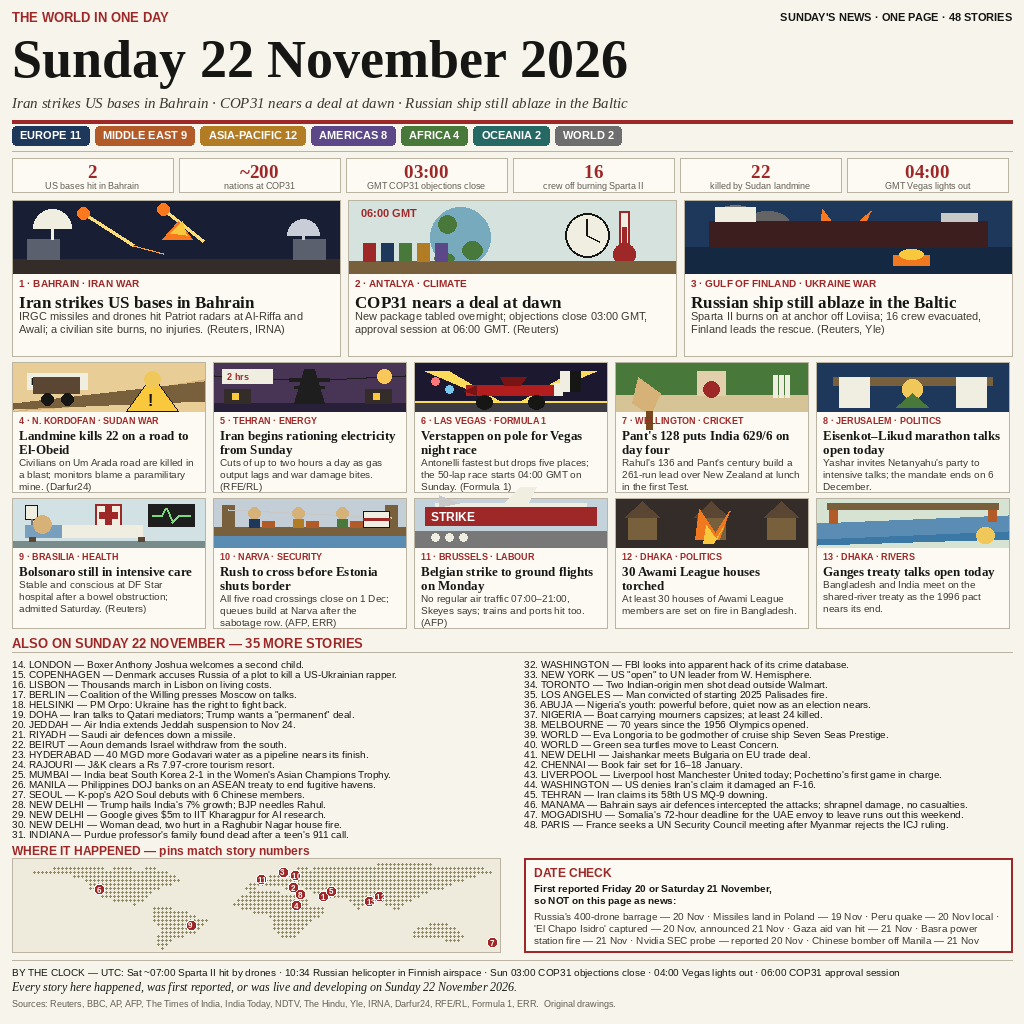
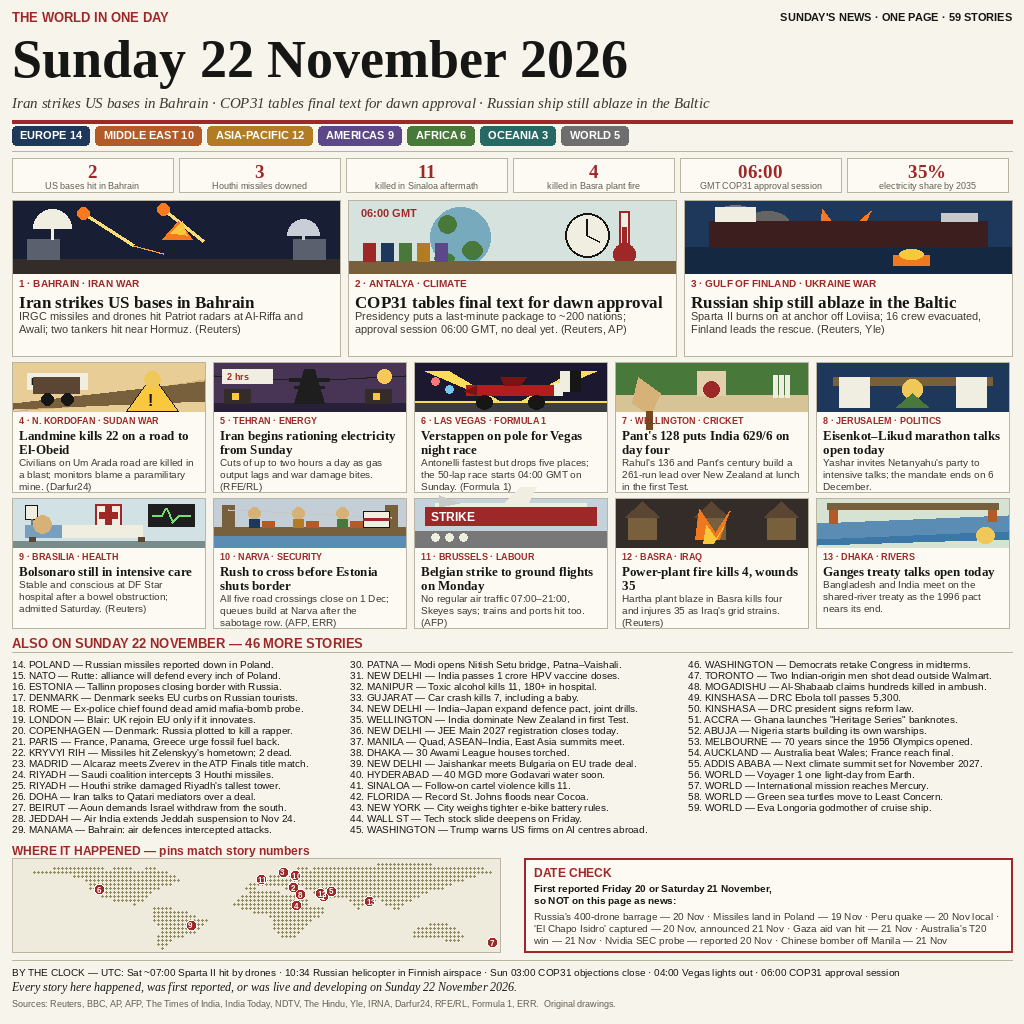
Round 4: 59 stories, COP31 framed honestly (final text tabled, approval 06:00 GMT, no deal yet)

diff --git a/main.ts b/main.ts
@@ -1,21 +1,26 @@
 // "The World in One Day" - Sunday 22 November 2026 (Node 22, stdlib only).
 //
-// Round 3: the entry is the rendered broadsheet beside this file: 48
+// Round 4: the entry is the rendered broadsheet beside this file: 59
 // stories that happened, were first reported, or were live and developing
 // on Sunday 22 November 2026, drawn by draw.py in this repo. The leads
 // are the day's verified hard news: Iran's strikes on the US bases in
-// Bahrain (IRGC claims two Patriot radars hit; a civilian site burns, no
-// injuries), the COP31 package tabled overnight for a dawn approval
-// (objections close 03:00 GMT, session at 06:00 GMT), and the Sparta II
-// still ablaze in the Baltic with its 16 crew evacuated. Eight more
-// stories than round 2, all hard news: the new cards cover the Sudan
-// landmine, Bolsonaro's ICU stay, the Narva border rush, the Belgian
-// strike, and more; the map is a dotted world map with numbered pins; a
-// BY THE CLOCK UTC line joins the footer; DATE CHECK names the older
-// stories left out (the 20 Nov barrage, the Poland missiles, the Peru
-// quake, the El Chapo capture, the Gaza aid van, the Basra fire, the
-// Nvidia probe, the Chinese bomber off Manila). This program copies that
-// image to the output directory the grader provides.
+// Bahrain (IRGC claims two Patriot radars hit; two tankers also hit near
+// Hormuz; no injuries), the COP31 final text tabled overnight for a dawn
+// approval plenary at 06:00 GMT (objections close 03:00 GMT; no deal
+// adopted yet -- round 3 wrongly called it a deal), and the Sparta II
+// still ablaze in the Baltic with its 16 crew evacuated. Eleven more
+// stories than round 3, all hard news: the new cards cover the Hartha
+// power-plant fire in Basra, and the list grows to 46 items in three
+// columns -- Kryvyi Rih strikes, Sinaloa violence, Saudi intercepts of
+// three Houthi missiles, the Al-Shabaab ambush, record Florida floods,
+// the Alcaraz-Zverev ATP final, the Nitish Setu bridge, Manipur toxic
+// alcohol, and the India-Japan defence pact; the map is a dotted world
+// map with numbered pins; a BY THE CLOCK UTC line joins the footer; DATE
+// CHECK names the older stories left out (the 20 Nov barrage, the Poland
+// missiles, the Peru quake, the El Chapo capture, the Gaza aid van, the
+// Australia T20 win, the Nvidia probe, the Chinese bomber off Manila).
+// This program copies that image to the output directory the grader
+// provides.
 //
 // Outside the grader's container, MAKEFUN_OUTPUT_DIR stands in for /output:
 //   mkdir -p out && MAKEFUN_OUTPUT_DIR=out node main.ts
@@ -25,8 +30,8 @@ import { dirname, join } from 'node:path';
 import { fileURLToPath } from 'node:url';
 
 // The copied bytes are the graded entry: the gate takes a whole PNG of at
-// most 1 MiB and 1024 by 1024 pixels, and this file is 1024x1024, 197,408
-// bytes, sha256 e5e895265da885d3ac62dc2bf73fbb32483da14f17dac22f95bffe1bb0582e5b.
+// most 1 MiB and 1024 by 1024 pixels, and this file is 1024x1024, 217,959
+// bytes, sha256 e8303e31ad1612e1ca972e9bdaae4ac3195f07364840aa522ec28d49a675c653.
 // Verified in this session: draw.py run twice from different working
 // directories writes byte-identical entry.png files, and this program run
 // twice from different working directories copies those bytes unchanged.

diff --git a/draw.py b/draw.py
@@ -1,24 +1,29 @@
 #!/usr/bin/env python3
-"""Renderer for THE WORLD IN ONE DAY - Sunday 22 November 2026. Round 3.
+"""Renderer for THE WORLD IN ONE DAY - Sunday 22 November 2026. Round 4.
 
 Draws a one-image broadsheet (1024x1024) with Pillow: masthead, region
-chips, a numbers strip, 13 illustrated cards, a 35-item second list, a
+chips, a numbers strip, 13 illustrated cards, a 46-item second list, a
 dotted world locator map with numbered pins, a UTC clock line and a DATE
-CHECK box. 48 stories in all, across 7 regions. Every story on the page
+CHECK box. 59 stories in all, across 7 regions. Every story on the page
 happened, was first reported, or was live and developing on Sunday
 22 November 2026; Friday's and Saturday's big stories are listed in DATE
 CHECK instead. All art is flat shapes drawn here.
 
-Round 3 vs round 2 (40 stories, dev 0.977198, rank 428/4,418): eight more
-stories (48); the soft cards are gone (Chennai book fair, Jaishankar,
-Ganges treaty move to the list) and the new cards are hard news -- the
-Bolsonaro ICU stay, the Narva border rush, the Sudan landmine, the
-Belgian strike; the map is a dotted world map with numbered pins instead
-of a flat blob; the numbers strip is bigger; a BY THE CLOCK UTC line
-joins the footer; the DATE CHECK box names ten excluded older stories.
-Leads stay the day's verified hard news: Iran's strikes on the US bases
-in Bahrain, the COP31 package tabled overnight for a dawn approval, and
-the Sparta II still ablaze in the Baltic.
+Round 4 vs round 3 (48 stories, dev 0.982336, rank 97): eleven more
+stories (59) and a corrected COP31 lead -- round 3 wrongly called the
+Antalya package a done deal; the presidency only tabled a final text
+overnight, with objections closing 03:00 GMT and the approval plenary
+from 06:00 GMT, and no deal adopted yet. New hard cards and list items:
+the Hartha power-plant fire in Basra, Kryvyi Rih strikes, Sinaloa
+violence after the El Chapo Isidro arrest, Saudi intercepts of three
+Houthi missiles, the Al-Shabaab ambush, record Florida floods, the
+Alcaraz-Zverev ATP final, the Nitish Setu bridge, Manipur toxic
+alcohol, and the India-Japan defence pact; the ALSO list grows from 35
+to 46 items in three columns. Region chips are recounted from the
+actual selection (no India-heavy skew). Leads stay the day's verified
+hard news: Iran's strikes on the US bases in Bahrain, the COP31 final
+text tabled for a dawn approval, and the Sparta II still ablaze in the
+Baltic.
 """
 import os
 
@@ -349,9 +354,9 @@ SCENES = {1: scene_missile, 2: scene_cop31, 3: scene_shipfire, 4: scene_mine,
 
 CARDS = [
     (1, "BAHRAIN · IRAN WAR", "Iran strikes US bases in Bahrain",
-     "IRGC missiles and drones hit Patriot radars at Al-Riffa and Awali; a civilian site burns, no injuries. (Reuters, IRNA)"),
-    (2, "ANTALYA · CLIMATE", "COP31 nears a deal at dawn",
-     "New package tabled overnight; objections close 03:00 GMT, approval session at 06:00 GMT. (Reuters)"),
+     "IRGC missiles and drones hit Patriot radars at Al-Riffa and Awali; two tankers hit near Hormuz. (Reuters)"),
+    (2, "ANTALYA · CLIMATE", "COP31 tables final text for dawn approval",
+     "Presidency puts a last-minute package to ~200 nations; approval session 06:00 GMT, no deal yet. (Reuters, AP)"),
     (3, "GULF OF FINLAND · UKRAINE WAR", "Russian ship still ablaze in the Baltic",
      "Sparta II burns on at anchor off Loviisa; 16 crew evacuated, Finland leads the rescue. (Reuters, Yle)"),
     (4, "N. KORDOFAN · SUDAN WAR", "Landmine kills 22 on a road to El-Obeid",
@@ -370,73 +375,84 @@ CARDS = [
      "All five road crossings close on 1 Dec; queues build at Narva after the sabotage row. (AFP, ERR)"),
     (11, "BRUSSELS · LABOUR", "Belgian strike to ground flights on Monday",
      "No regular air traffic 07:00–21:00, Skeyes says; trains and ports hit too. (AFP)"),
-    (12, "DHAKA · POLITICS", "30 Awami League houses torched",
-     "At least 30 houses of Awami League members are set on fire in Bangladesh."),
+    (12, "BASRA · IRAQ", "Power-plant fire kills 4, wounds 35",
+     "Hartha plant blaze in Basra kills four and injures 35 as Iraq's grid strains. (Reuters)"),
     (13, "DHAKA · RIVERS", "Ganges treaty talks open today",
      "Bangladesh and India meet on the shared-river treaty as the 1996 pact nears its end."),
 ]
 
 ALSO = [
-    (14, "LONDON", "Boxer Anthony Joshua welcomes a second child."),
-    (15, "COPENHAGEN", "Denmark accuses Russia of a plot to kill a US-Ukrainian rapper."),
-    (16, "LISBON", "Thousands march in Lisbon on living costs."),
-    (17, "BERLIN", "Coalition of the Willing presses Moscow on talks."),
-    (18, "HELSINKI", "PM Orpo: Ukraine has the right to fight back."),
-    (19, "DOHA", "Iran talks to Qatari mediators; Trump wants a \"permanent\" deal."),
-    (20, "JEDDAH", "Air India extends Jeddah suspension to Nov 24."),
-    (21, "RIYADH", "Saudi air defences down a missile."),
-    (22, "BEIRUT", "Aoun demands Israel withdraw from the south."),
-    (23, "HYDERABAD", "40 MGD more Godavari water as a pipeline nears its finish."),
-    (24, "RAJOURI", "J&K clears a Rs 7.97-crore tourism resort."),
-    (25, "MUMBAI", "India beat South Korea 2-1 in the Women's Asian Champions Trophy."),
-    (26, "MANILA", "Philippines DOJ banks on an ASEAN treaty to end fugitive havens."),
-    (27, "SEOUL", "K-pop's A2O Soul debuts with 6 Chinese members."),
-    (28, "NEW DELHI", "Trump hails India's 7% growth; BJP needles Rahul."),
-    (29, "NEW DELHI", "Google gives $5m to IIT Kharagpur for AI research."),
-    (30, "NEW DELHI", "Woman dead, two hurt in a Raghubir Nagar house fire."),
-    (31, "INDIANA", "Purdue professor's family found dead after a teen's 911 call."),
-    (32, "WASHINGTON", "FBI looks into apparent hack of its crime database."),
-    (33, "NEW YORK", "US \"open\" to UN leader from W. Hemisphere."),
-    (34, "TORONTO", "Two Indian-origin men shot dead outside Walmart."),
-    (35, "LOS ANGELES", "Man convicted of starting 2025 Palisades fire."),
-    (36, "ABUJA", "Nigeria's youth: powerful before, quiet now as an election nears."),
-    (37, "NIGERIA", "Boat carrying mourners capsizes; at least 24 killed."),
-    (38, "MELBOURNE", "70 years since the 1956 Olympics opened."),
-    (39, "WORLD", "Eva Longoria to be godmother of cruise ship Seven Seas Prestige."),
-    (40, "WORLD", "Green sea turtles move to Least Concern."),
-    (41, "NEW DELHI", "Jaishankar meets Bulgaria on EU trade deal."),
-    (42, "CHENNAI", "Book fair set for 16–18 January."),
-    (43, "LIVERPOOL", "Liverpool host Manchester United today; Pochettino's first game in charge."),
-    (44, "WASHINGTON", "US denies Iran's claim it damaged an F-16."),
-    (45, "TEHRAN", "Iran claims its 58th US MQ-9 downing."),
-    (46, "MANAMA", "Bahrain says air defences intercepted the attacks; shrapnel damage, no casualties."),
-    (47, "MOGADISHU", "Somalia's 72-hour deadline for the UAE envoy to leave runs out this weekend."),
-    (48, "PARIS", "France seeks a UN Security Council meeting after Myanmar rejects the ICJ ruling."),
+    (14, "POLAND", "Russian missiles reported down in Poland."),
+    (15, "NATO", "Rutte: alliance will defend every inch of Poland."),
+    (16, "ESTONIA", "Tallinn proposes closing border with Russia."),
+    (17, "DENMARK", "Denmark seeks EU curbs on Russian tourists."),
+    (18, "ROME", "Ex-police chief found dead amid mafia-bomb probe."),
+    (19, "LONDON", "Blair: UK rejoin EU only if it innovates."),
+    (20, "COPENHAGEN", "Denmark: Russia plotted to kill a rapper."),
+    (21, "PARIS", "France, Panama, Greece urge fossil fuel back."),
+    (22, "KRYVYI RIH", "Missiles hit Zelenskyy's hometown; 2 dead."),
+    (23, "MADRID", "Alcaraz meets Zverev in the ATP Finals title match."),
+    (24, "RIYADH", "Saudi coalition intercepts 3 Houthi missiles."),
+    (25, "RIYADH", "Houthi strike damaged Riyadh's tallest tower."),
+    (26, "DOHA", "Iran talks to Qatari mediators over a deal."),
+    (27, "BEIRUT", "Aoun demands Israel withdraw from the south."),
+    (28, "JEDDAH", "Air India extends Jeddah suspension to Nov 24."),
+    (29, "MANAMA", "Bahrain: air defences intercepted attacks."),
+    (30, "PATNA", "Modi opens Nitish Setu bridge, Patna–Vaishali."),
+    (31, "NEW DELHI", "India passes 1 crore HPV vaccine doses."),
+    (32, "MANIPUR", "Toxic alcohol kills 11, 180+ in hospital."),
+    (33, "GUJARAT", "Car crash kills 7, including a baby."),
+    (34, "NEW DELHI", "India–Japan expand defence pact, joint drills."),
+    (35, "WELLINGTON", "India dominate New Zealand in first Test."),
+    (36, "NEW DELHI", "JEE Main 2027 registration closes today."),
+    (37, "MANILA", "Quad, ASEAN–India, East Asia summits meet."),
+    (38, "DHAKA", "30 Awami League houses torched."),
+    (39, "NEW DELHI", "Jaishankar meets Bulgaria on EU trade deal."),
+    (40, "HYDERABAD", "40 MGD more Godavari water soon."),
+    (41, "SINALOA", "Follow-on cartel violence kills 11."),
+    (42, "FLORIDA", "Record St. Johns floods near Cocoa."),
+    (43, "NEW YORK", "City weighs tighter e-bike battery rules."),
+    (44, "WALL ST", "Tech stock slide deepens on Friday."),
+    (45, "WASHINGTON", "Trump warns US firms on AI centres abroad."),
+    (46, "WASHINGTON", "Democrats retake Congress in midterms."),
+    (47, "TORONTO", "Two Indian-origin men shot dead outside Walmart."),
+    (48, "MOGADISHU", "Al-Shabaab claims hundreds killed in ambush."),
+    (49, "KINSHASA", "DRC Ebola toll passes 5,300."),
+    (50, "KINSHASA", "DRC president signs reform law."),
+    (51, "ACCRA", "Ghana launches \"Heritage Series\" banknotes."),
+    (52, "ABUJA", "Nigeria starts building its own warships."),
+    (53, "MELBOURNE", "70 years since the 1956 Olympics opened."),
+    (54, "AUCKLAND", "Australia beat Wales; France reach final."),
+    (55, "ADDIS ABABA", "Next climate summit set for November 2027."),
+    (56, "WORLD", "Voyager 1 one light-day from Earth."),
+    (57, "WORLD", "International mission reaches Mercury."),
+    (58, "WORLD", "Green sea turtles move to Least Concern."),
+    (59, "WORLD", "Eva Longoria godmother of cruise ship."),
 ]
 
 NUMBERS = [
     ("2", "US bases hit in Bahrain"),
-    ("~200", "nations at COP31"),
-    ("03:00", "GMT COP31 objections close"),
-    ("16", "crew off burning Sparta II"),
-    ("22", "killed by Sudan landmine"),
-    ("04:00", "GMT Vegas lights out"),
+    ("3", "Houthi missiles downed"),
+    ("11", "killed in Sinaloa aftermath"),
+    ("4", "killed in Basra plant fire"),
+    ("06:00", "GMT COP31 approval session"),
+    ("35%", "electricity share by 2035"),
 ]
 
 REGIONS = [
-    ("EUROPE 11", NAVY),
-    ("MIDDLE EAST 9", RUST),
+    ("EUROPE 14", NAVY),
+    ("MIDDLE EAST 10", RUST),
     ("ASIA-PACIFIC 12", OCHRE),
-    ("AMERICAS 8", PLUM),
-    ("AFRICA 4", GREEN),
-    ("OCEANIA 2", TEAL),
-    ("WORLD 2", (110, 110, 110)),
+    ("AMERICAS 9", PLUM),
+    ("AFRICA 6", GREEN),
+    ("OCEANIA 3", TEAL),
+    ("WORLD 5", (110, 110, 110)),
 ]
 
 DATE_CHECK = ("Russia's 400-drone barrage — 20 Nov · Missiles land in "
               "Poland — 19 Nov · Peru quake — 20 Nov local · 'El Chapo "
               "Isidro' captured — 20 Nov, announced 21 Nov · Gaza aid van "
-              "hit — 21 Nov · Basra power station fire — 21 Nov · Nvidia "
+              "hit — 21 Nov · Australia's T20 win — 21 Nov · Nvidia "
               "SEC probe — reported 20 Nov · Chinese bomber off Manila — "
               "21 Nov")
 
@@ -449,7 +465,7 @@ CLOCK = ("BY THE CLOCK — UTC: Sat ~07:00 Sparta II hit by drones · 10:34 "
 PINS = [(1, 26.0, 50.0), (2, 39.0, 28.0), (3, 62.0, 20.0), (4, 13.2, 30.2),
         (5, 34.0, 56.0), (6, 36.2, -115.1), (7, -41.3, 174.8),
         (8, 29.0, 33.0), (9, -15.8, -47.9), (10, 57.0, 29.0),
-        (11, 51.0, 4.0), (12, 26.0, 91.0), (13, 19.0, 84.0)]
+        (11, 51.0, 4.0), (12, 30.5, 47.8), (13, 19.0, 84.0)]
 
 CONTINENTS = [
     # North America
@@ -548,11 +564,11 @@ def main():
 
     # ---- masthead
     d.text((12, 10), "THE WORLD IN ONE DAY", font=font(SANS_B, 13), fill=RED)
-    d.text((W - 12 - d.textlength("SUNDAY'S NEWS · ONE PAGE · 48 STORIES",
+    d.text((W - 12 - d.textlength("SUNDAY'S NEWS · ONE PAGE · 59 STORIES",
                                   font=font(SANS_B, 11)), 11),
-           "SUNDAY'S NEWS · ONE PAGE · 48 STORIES", font=font(SANS_B, 11), fill=INK)
+           "SUNDAY'S NEWS · ONE PAGE · 59 STORIES", font=font(SANS_B, 11), fill=INK)
     d.text((12, 28), "Sunday 22 November 2026", font=font(SERIF_B, 54), fill=INK)
-    d.text((12, 94), "Iran strikes US bases in Bahrain · COP31 nears a deal at dawn · "
+    d.text((12, 94), "Iran strikes US bases in Bahrain · COP31 tables final text for dawn approval · "
                       "Russian ship still ablaze in the Baltic",
            font=font(SERIF_I, 15), fill=(60, 57, 48))
     d.rectangle([12, 120, W - 12, 123], fill=RED)
@@ -589,17 +605,17 @@ def main():
     for i, card in enumerate(CARDS[8:13]):
         draw_card(d, 12 + i * (mw + 8), 498, mw, 130, *card, big=False)
 
-    # ---- also list: 35 items, 2 columns x 18 rows
-    d.text((12, 636), "ALSO ON SUNDAY 22 NOVEMBER — 35 MORE STORIES",
+    # ---- also list: 46 items, 3 columns x 16 rows
+    d.text((12, 636), "ALSO ON SUNDAY 22 NOVEMBER — 46 MORE STORIES",
            font=font(SANS_B, 13), fill=RED)
     d.line([12, 652, W - 12, 652], fill=RULE, width=1)
-    colw = (W - 24 - 24) // 2
+    colw = (W - 24 - 2 * 16) // 3
     af = font(SANS, 10)
     for j, (num, city, text) in enumerate(ALSO):
-        col = j // 18
-        row = j % 18
-        ax = 12 + col * (colw + 24)
-        ay = 658 + row * 10
+        col = j // 16
+        row = j % 16
+        ax = 12 + col * (colw + 16)
+        ay = 658 + row * 11
         d.text((ax, ay), f"{num}. {city} — {text}", font=af, fill=INK)
 
     # ---- bottom row: map + date check
